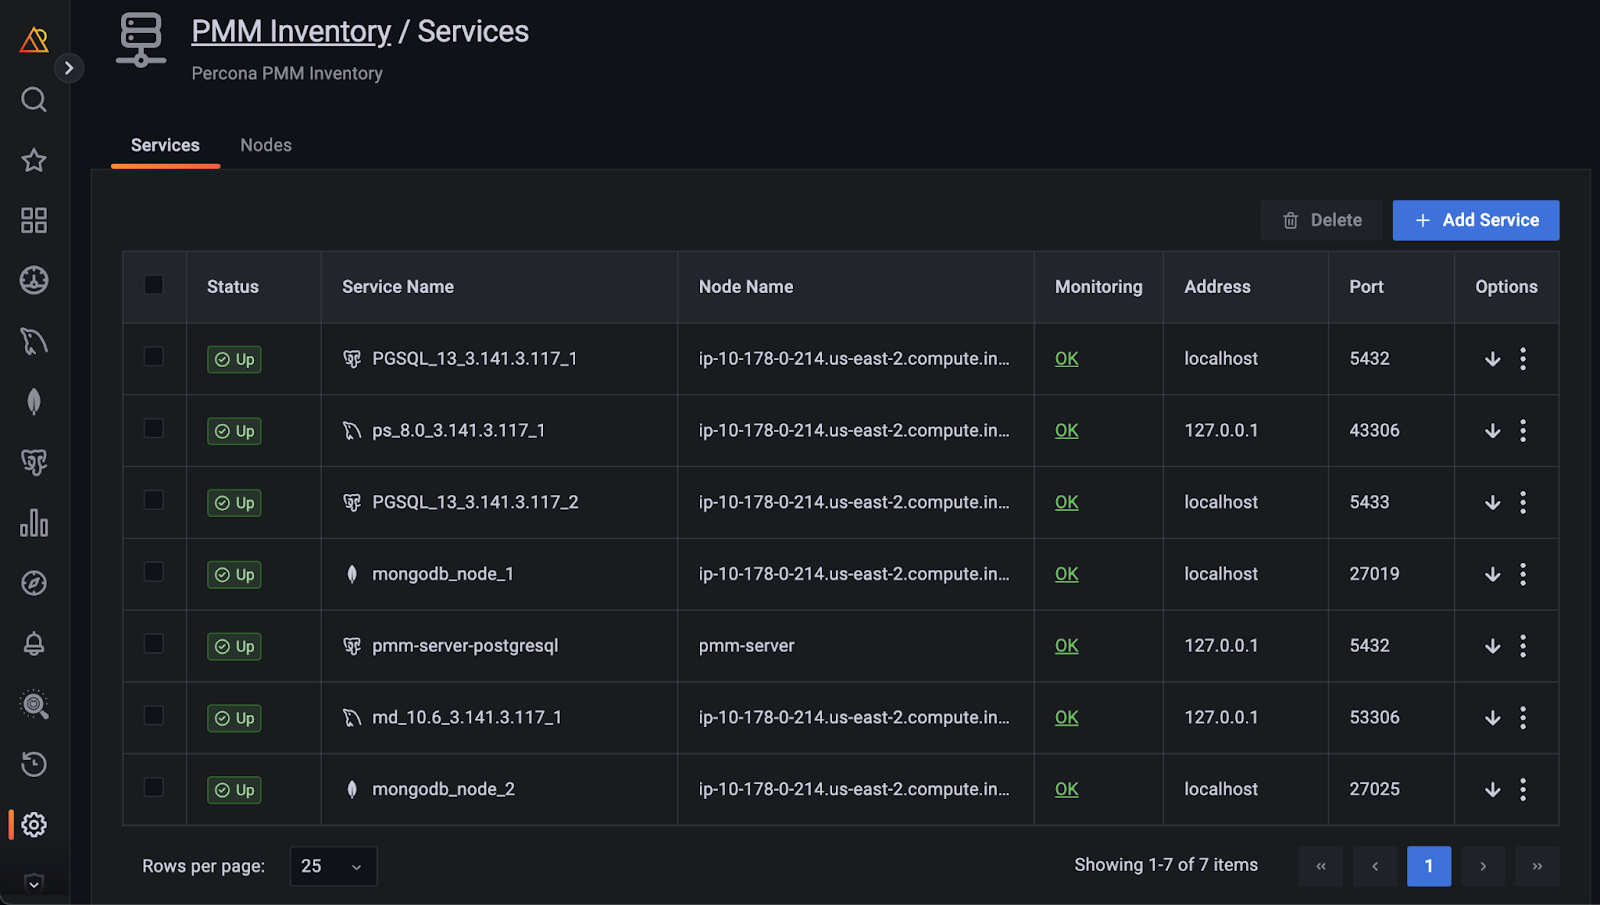
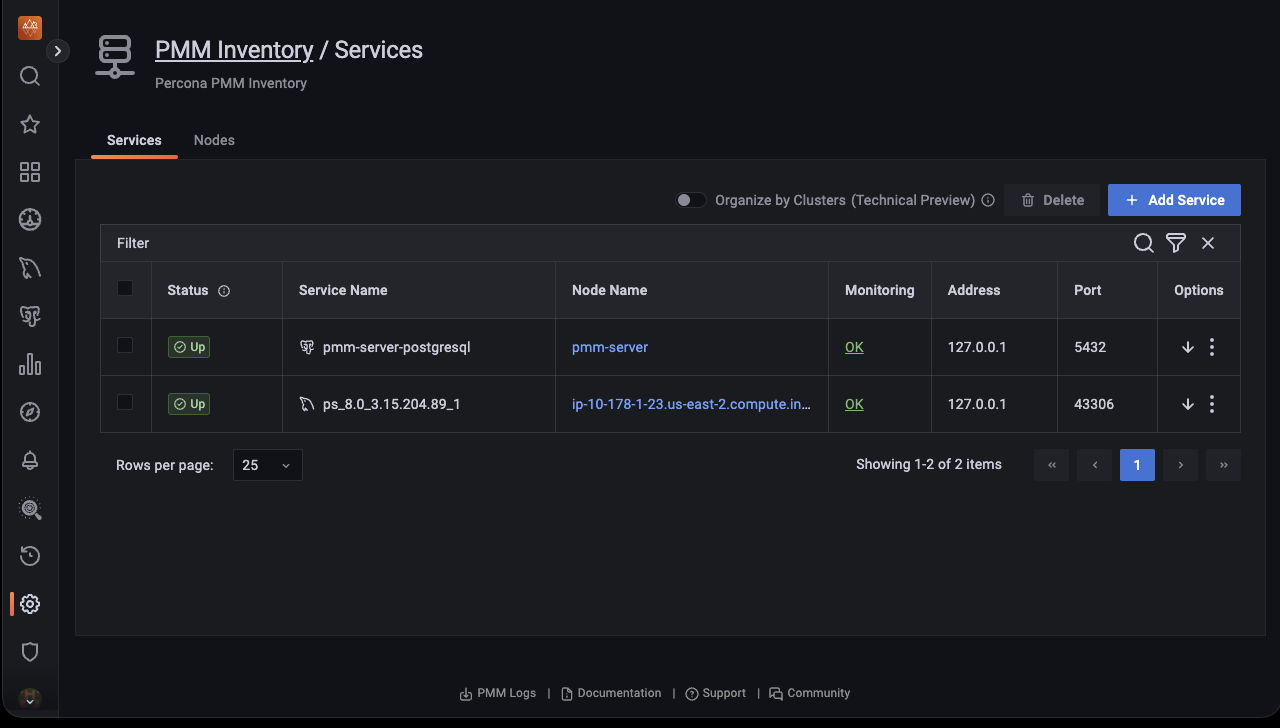
PMM 12408 nodes link inventory (#1141)
* PMM-12408_nodes_link_inventory

* Update dashboard-inventory.md

* Update dashboard-inventory.md

* Update images and added description

* updated the images

* ci: upgrade gh actions, pin mkdoc-material version

* fix the equality sign in requirements

* Update dashboard-inventory.md

* Update dashboard-inventory.md

* Update dashboard-inventory.md

* Update Inventory.png

* updates as per comments

* Update dashboard-inventory.md

---------

diff --git a/docs/details/dashboards/dashboard-inventory.md b/docs/details/dashboards/dashboard-inventory.md
@@ -8,11 +8,22 @@ To check your inventory list, go to <i class="uil uil-cog"></i> **Configuration*
 
 Inventory objects form a hierarchy with Node at the top, then Service and Agents assigned to a Node. This information is detailed in the two tabs available on this page.
 
-### **Services** tab
+### Services tab
 
-Shows individual services, the nodes on which they run, and the Agents that help collect the service metrics.
-The **Status** column shows the status of your databases based on metrics coming directly from the database.
-The **Monitoring** column summarizes the status of all the Agents assigned to the service.
+The **Services** tab displays the individual services, the nodes on which they run, and the Agents that help collect the service metrics along with the following information:
+
+
+**Service name** -  The name or identifier associated with the service being monitored.
+
+**Node Name** - Name or identifier associated with a specific node. 
+
+**Monitoring status** - The **Monitoring** column summarizes the status of all the Agents assigned to the service.
+
+**Address** -The IP address or DNS where the service is currently running.
+
+**Port** - The port number on which the service is running.
+
+
 
 You can check Query Analytics information and the Service Overview Dashboard for each service by clicking on the <image src="../../_images/dots-three-vertical.ico" width="15px" aria-label="triple dots"/> icon in the **Options** column.
 
@@ -31,8 +42,21 @@ Each binary (exporter, agent) running on a client will get an `agent_type` value
 To view the agents running on a service and their health status, click **OK** or **Failed** under the **Monitoring** column. Furthermore, you can also check the properties of a particular agent by clicking the <image src="../../_images/arrow-downward.ico" width="15px" aria-label="downward arrow"/> icon under the **Options** column.
 ![!image](../../_images/PMM_Inventory_Service_Agent_Properties.png)
 
+#### Node-service relationship
 
-### **Nodes** tab
+Starting with PMM 2.40.0, you can click on the link in the **Node Name** column to view the node on which a specific service is running and analyze how node-level resource utilization impacts the performance of those services.
+
+Understanding the relationship between nodes and services is key to gaining insights into the distribution and performance of individual services across nodes.
+
+- **Deployment**: Services within PMM are deployed on nodes and rely on them for resources, such as CPU, memory, and storage, to execute tasks.
+
+- **Resource allocation**: It is essential to know which nodes host which services to allocate resources appropriately to avoid underuse or overload.
+
+- **Performance optimization**: By analyzing node and service-level metrics, you can pinpoint and resolve issues that impede service performance, such as resource limitations and performance bottlenecks.
+
+- **Incident response**: When an issue or incident occurs, understanding the node-service relationship helps in troubleshooting. You can quickly identify which nodes and services are affected and focus your efforts on resolving the problem.
+
+### Nodes tab
 
 Shows where the service and agents run.
 
@@ -41,6 +65,8 @@ Each `node_id` is associated with a `machine_id` (from `/etc/machine-id`). Nodes
 By expanding the entry from the options column, you can check the node labels and attributes.
 
 Starting with PMM 2.38.0, you can see the number of agents running on any particular node. When you click on any node, the UI navigates to the view of agents, which is filtered to display only agents related to that specific node. 
+
+Furthermore, starting with PMM 2.40.0, you can see the service running on that specific node when you click on the link in the **Services** column.
 
 To see the details of the agents running, do the following:
 
